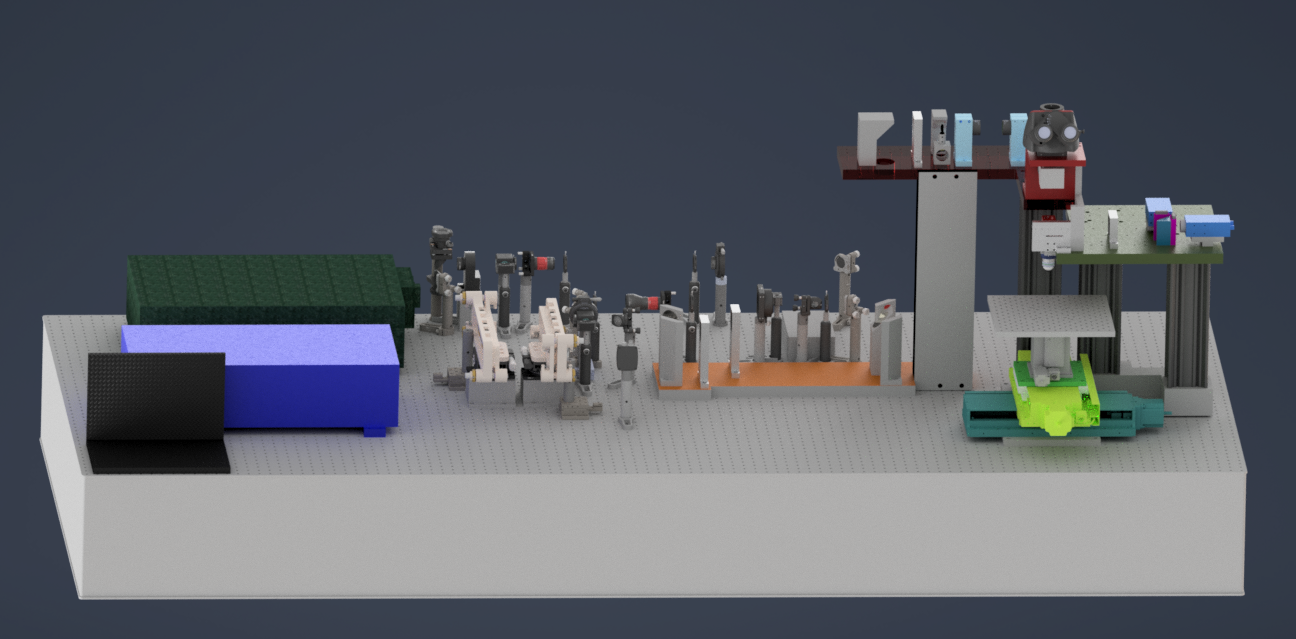
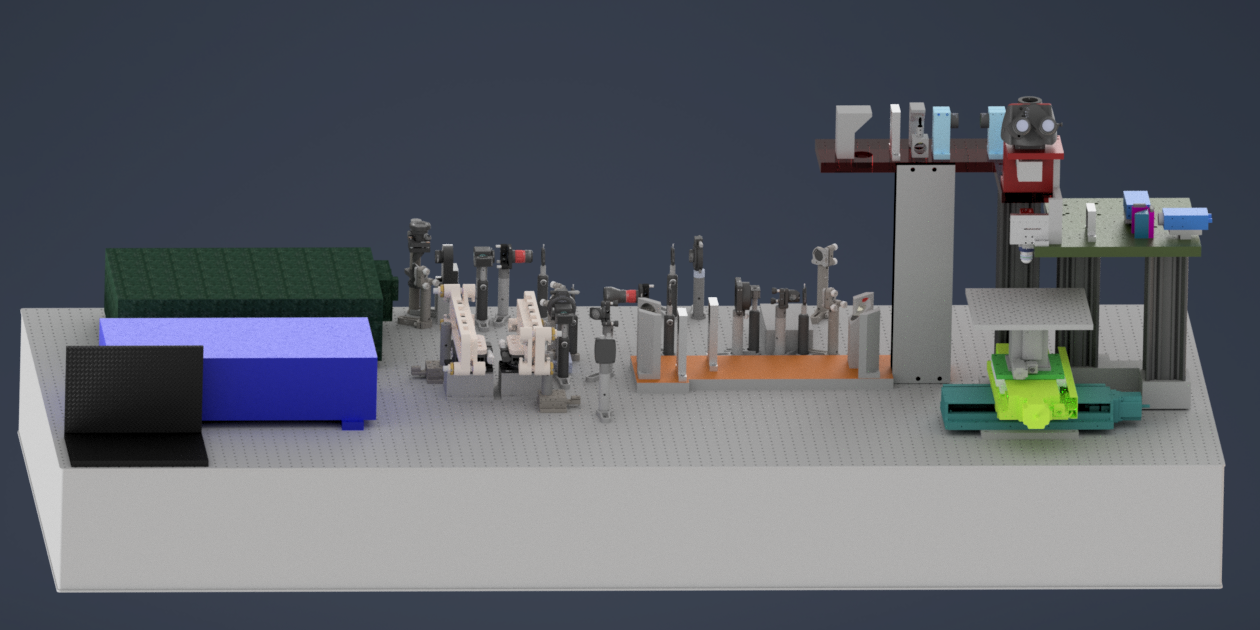
Website: update research-publications and FACED assembly images.

Changed region(s): [[0.0, 0.1508, 0.9905, 0.9651], [0.0619, 0.3921, 0.1238, 0.4524]]

diff --git a/research-publications.html b/research-publications.html
@@ -207,8 +207,6 @@
             display: flex;
             flex-direction: column;
             gap: 14px;
-            /* Shared cap with main column; used for tower width and assembly row */
-            --faced-tower-max: min(1140px, 100%);
         }
         .faced-gallery img {
             max-width: 100%;
@@ -256,9 +254,18 @@
             padding-left: 64px;
             padding-right: 64px;
             box-sizing: border-box;
+            /* Same track as scaled FACED_Tower.png (mirrors .wrapper + .main-content) */
+            --faced-tower-max: min(1140px, 100%);
         }
-        .main-content .faced-v3-fullbleed > p {
-            max-width: none;
+        .main-content .faced-v3-fullbleed > h2,
+        .main-content .faced-v3-fullbleed > p,
+        .main-content .faced-v3-fullbleed > ul,
+        .main-content .faced-v3-fullbleed > .faced-gallery {
+            max-width: var(--faced-tower-max);
+            width: 100%;
+            margin-left: auto;
+            margin-right: auto;
+            box-sizing: border-box;
         }
         @media (max-width: 992px) {
             .main-content .faced-v3-fullbleed {
